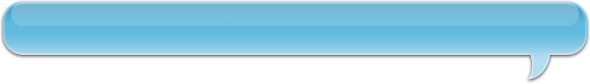
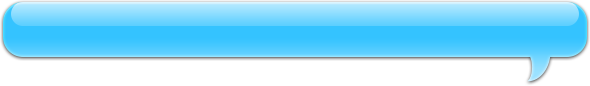
Updated style of chatting ui

diff --git a/prj/DoubleDate/Classes/Views/DDChatTableViewCell.m b/prj/DoubleDate/Classes/Views/DDChatTableViewCell.m
@@ -9,6 +9,7 @@
 #import "DDChatTableViewCell.h"
 #import "DDTools.h"
 #import "DDMessage.h"
+#import <QuartzCore/QuartzCore.h>
 
 @implementation DDChatTableViewCell
 
@@ -37,7 +38,15 @@
     self.imageViewBubble.image = [imageBubble resizableImageWithCapInsets:UIEdgeInsetsMake(imageBubble.size.height/2-4, imageBubble.size.width/2, imageBubble.size.height/2+4, imageBubble.size.width/2)];
     
     //unset text view background
+    self.labelName.backgroundColor = [UIColor clearColor];
+    self.labelTime.backgroundColor = [UIColor clearColor];
     self.textView.backgroundColor = [UIColor clearColor];
+    
+    self.textView.layer.shadowColor = [[UIColor whiteColor] CGColor];
+    self.textView.layer.shadowOffset = CGSizeMake(0, 1);
+    self.textView.layer.shadowOpacity = 0.3f;
+    self.textView.layer.shadowRadius = 0;
+    
 }
 
 + (CGFloat)heightForText:(NSString*)text
@@ -60,7 +69,7 @@
         self.textView.text = v.message;
         
         //set time
-        self.labelTime.text = v.createdAtAgo;
+        self.labelTime.text = [NSString stringWithFormat:@"%@ ago", v.createdAtAgo];
         
         //update frame
         CGFloat oldLabelTimeX = self.labelTime.frame.origin.x;

diff --git a/prj/DoubleDate/Classes/ViewControllers/DDEngagementsViewController.m b/prj/DoubleDate/Classes/ViewControllers/DDEngagementsViewController.m
@@ -72,7 +72,6 @@
     [self.viewNoData addSubview:imageViewNoData];
     
     //add no messages label
-#warning customize no messages label
     UILabel *labelNoData = [[[UILabel alloc] initWithFrame:CGRectMake(0, 0, 320, 60)] autorelease];
     labelNoData.center = CGPointMake(self.viewNoData.center.x, self.viewNoData.center.y + 70);
     labelNoData.autoresizingMask = UIViewAutoresizingFlexibleRightMargin | UIViewAutoresizingFlexibleLeftMargin | UIViewAutoresizingFlexibleTopMargin | UIViewAutoresizingFlexibleBottomMargin;
